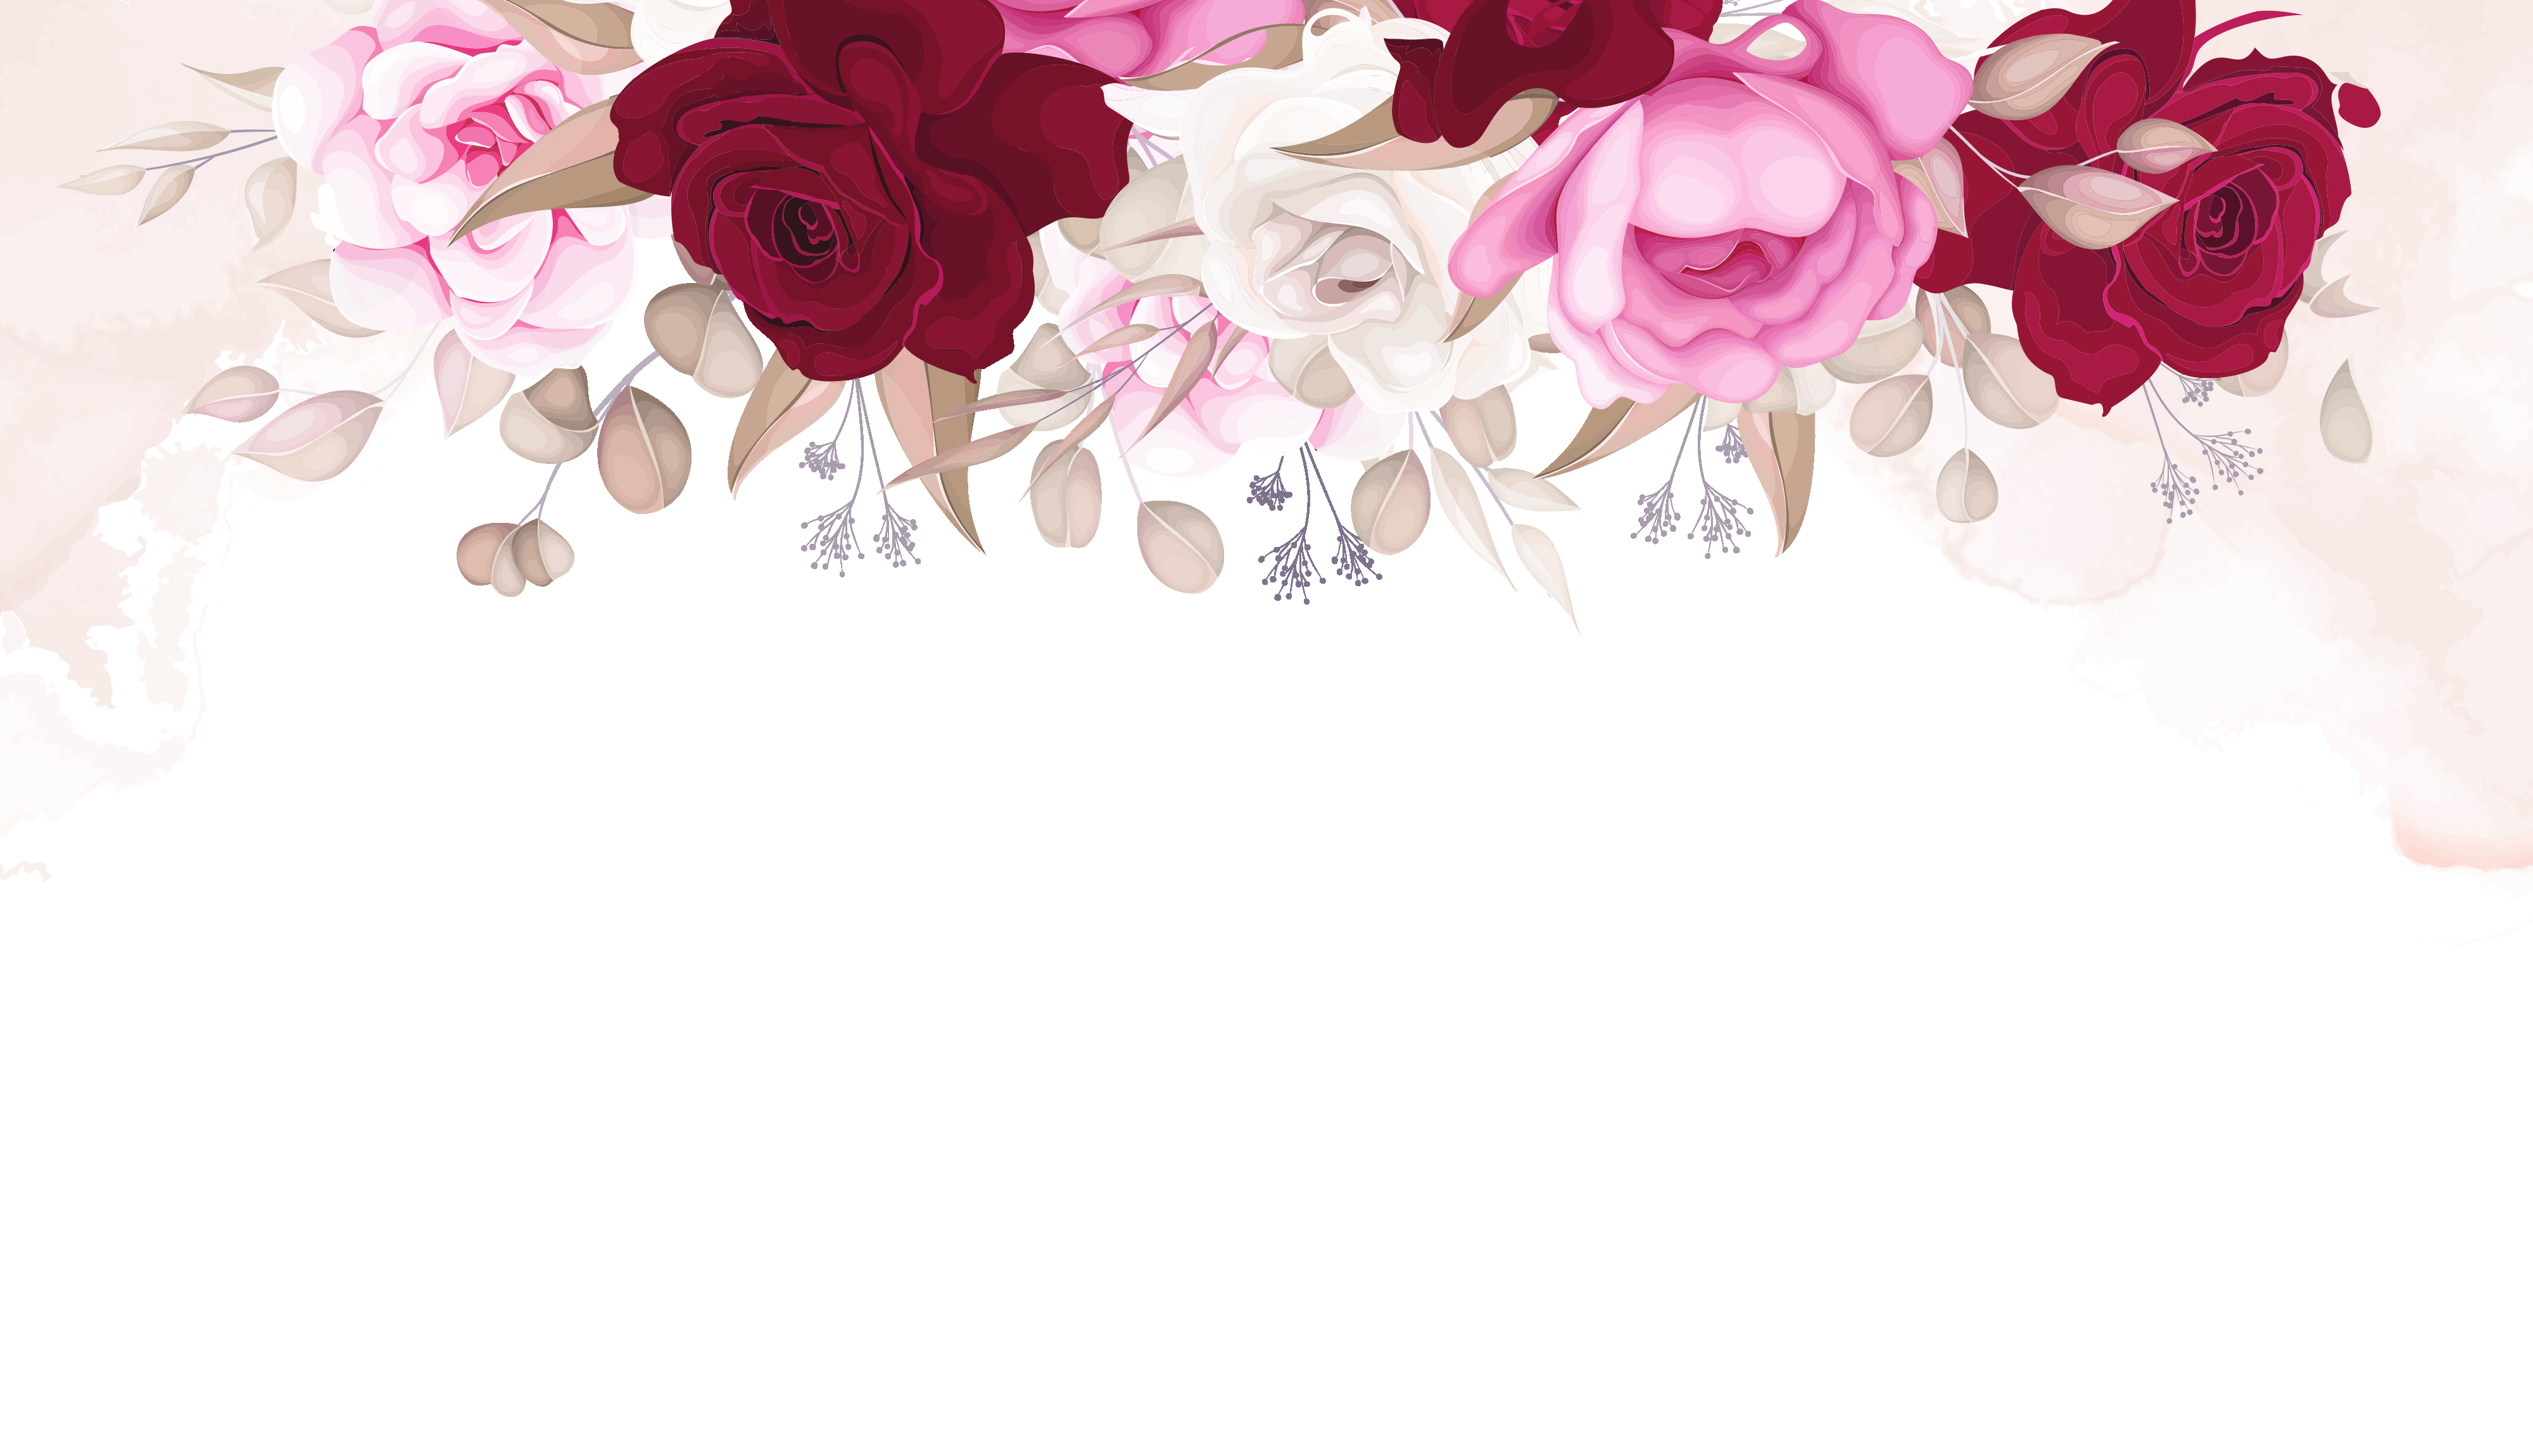
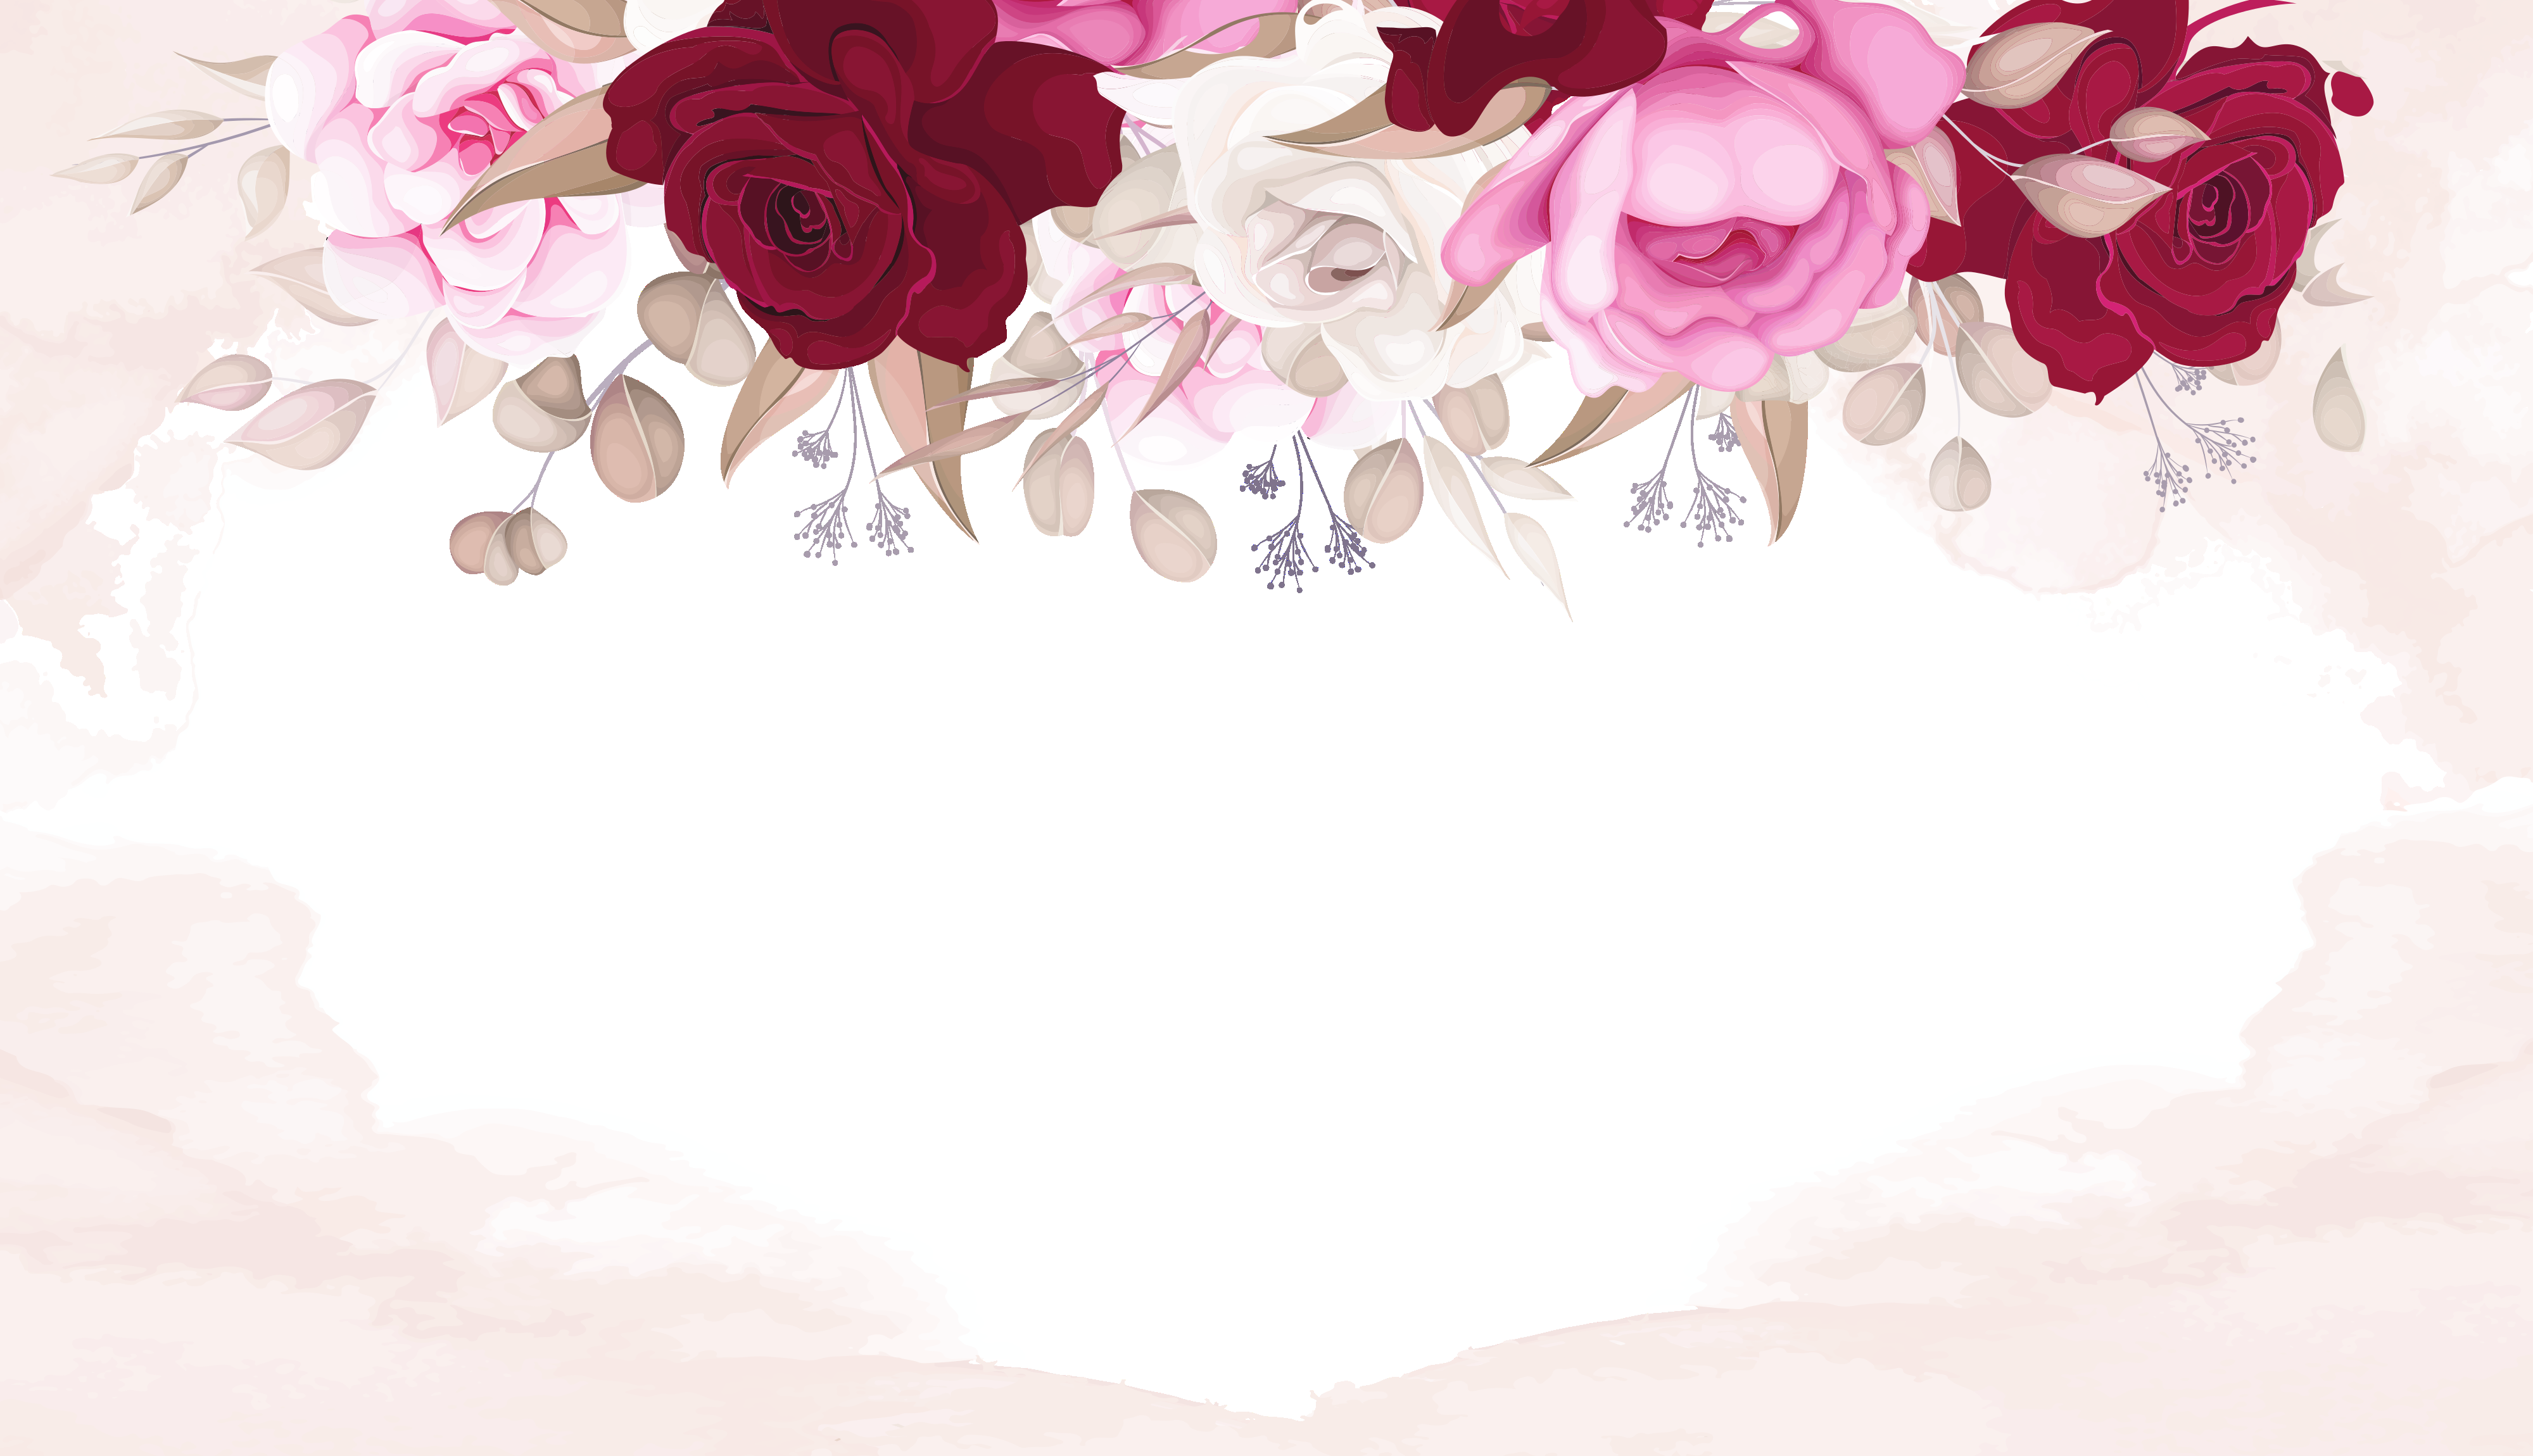
aumento da fonte

diff --git a/index.html b/index.html
@@ -14,6 +14,7 @@
         body { 
             margin: 0; 
             font-family: 'Cormorant Garamond', 'Georgia', serif; 
+            font-style: italic; /* Aplica itálico globalmente */
             color: #990011; /* Vinho mais puxado para o vermelho */
             line-height: 1.6; 
         }
@@ -38,12 +39,13 @@
         /* Texto rigorosamente centralizado no meio do banner */
         .banner-texto {
             font-family: 'Cormorant Garamond', serif;
+            font-style: italic;
             position: absolute;
             top: 65%; 
             left: 50%;
             transform: translate(-50%, -50%);
             text-align: center;
-            color: #990011; /* Vinho mais puxado para o vermelho */
+            color: #990011; 
             padding: 20px;
             width: 95%; 
             max-width: 1000px;
@@ -52,6 +54,7 @@
         
         .banner-texto h1 { 
             font-family: 'Cormorant Garamond', serif;
+            font-style: italic;
             font-size: 5.5vw; 
             font-weight: 400; 
             margin: 10px 0; 
@@ -60,12 +63,12 @@
         }
         .banner-texto p { 
             font-family: 'Cormorant Garamond', serif;
+            font-style: italic;
             font-size: 3.1vw; 
             margin: 0;
         }
         
         .nome-assinatura {
-            font-style: italic; 
             margin-top: 15px !important;
             white-space: nowrap; 
         }
@@ -92,11 +95,12 @@
         /* Fonte Reduzida em 50% para o Convite no Desktop */
         .container-texto-vertical h2 {
             font-family: 'Cormorant Garamond', serif;
-            font-size: 2.5rem; 
+            font-style: italic;
+            font-size: 3.0rem; 
             font-weight: 400;
             margin: 0;
             line-height: 1.5;
-            color: #990011; /* Vinho mais puxado para o vermelho */
+            color: #990011; 
         }
         
         /* Seção de Data e Local baseada na Imagem (Fundo Branco) */
@@ -116,7 +120,8 @@
         /* Rótulos pequenos superiores APENAS EM PRETO */
         .rotulo-superior {
             font-family: 'Cormorant Garamond', serif;
-            font-size: 1.5rem; 
+            font-style: italic;
+            font-size: 2.0rem; 
             font-weight: 400;
             text-transform: capitalize;
             letter-spacing: 1px;
@@ -127,20 +132,22 @@
         /* Informações Principais Grandes */
         .texto-principal-grande {
             font-family: 'Cormorant Garamond', serif;
+            font-style: italic;
             font-size: 2.7rem; 
             font-weight: 400;
             margin: 0;
             line-height: 1.2;
-            color: #990011; /* Vinho mais puxado para o vermelho */
+            color: #990011; 
         }
 
         /* Texto secundário (Recepção) */
         .secao .grid-duplo h3 {
             font-family: 'Cormorant Garamond', serif;
+            font-style: italic;
             font-size: 1.75rem; 
             font-weight: 400;
             margin: 15px 0 0 0;
-            color: #990011; /* Vinho mais puxado para o vermelho */
+            color: #990011; 
         }
 
         /* Ajustes para Celular */